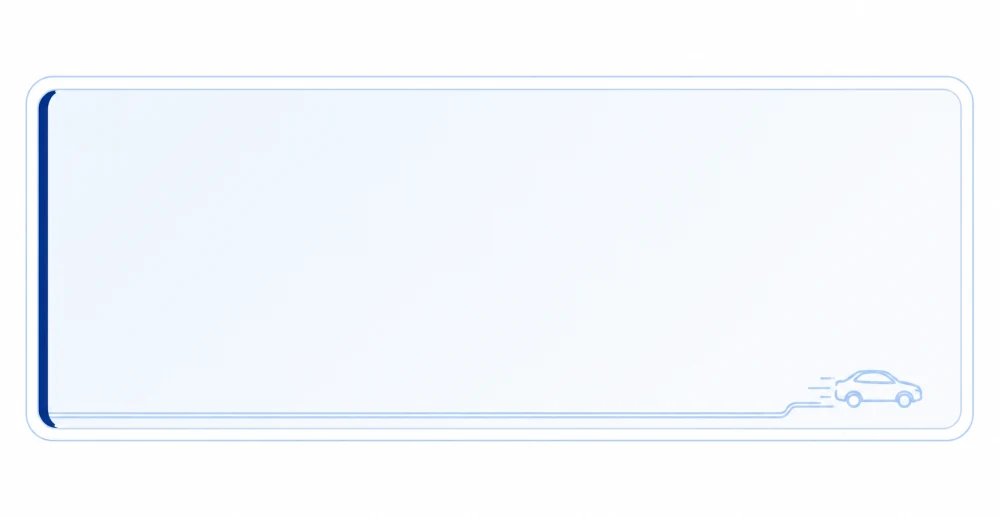
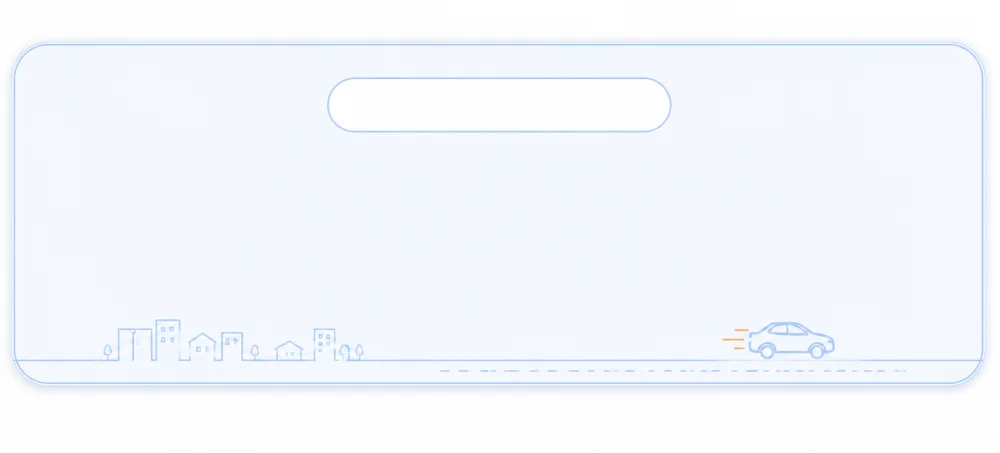
Refine Tachikawa store heading design

Changed region(s): [[0.0, 0.0927, 0.992, 0.8653], [0.341, 0.2781, 0.651, 0.3091]]

diff --git a/shop/tokyo/tachikawa/index.html b/shop/tokyo/tachikawa/index.html
@@ -317,11 +317,13 @@
             }
 
             .tachikawa-access-card .tachikawa-store-heading {
-              min-height: clamp(154px, 46vw, 182px);
-              aspect-ratio: 1000 / 517;
+              width: 100%;
+              height: clamp(154px, 42vw, 160px);
+              min-height: 0;
+              aspect-ratio: auto;
               max-width: none;
               margin: 0 0 12px;
-              padding: clamp(46px, 13vw, 54px) clamp(24px, 6.5vw, 27px) clamp(20px, 6vw, 27px);
+              padding: 0;
               border: 0;
               border-radius: 0;
               overflow: hidden;
@@ -344,33 +346,49 @@
             }
 
             .tachikawa-store-heading > .tachikawa-store-heading-label {
+              width: min(68%, 235px);
+              min-height: clamp(29px, 8.5vw, 34px);
               display: flex;
               align-items: center;
+              justify-content: center;
               gap: 6px;
-              margin: 0 0 9px;
-              color: #3f6171;
-              font-size: clamp(12px, 3.2vw, 14px);
-              font-weight: 800;
+              margin: 0;
+              padding: 3px 12px;
+              border: 1px solid #a8c9f5;
+              border-radius: 999px;
+              background: var(--white);
+              color: var(--navy);
+              font-size: clamp(12px, 3.5vw, 14px);
+              font-weight: 900;
               line-height: 1.3;
               letter-spacing: 0.04em;
-              position: relative;
+              position: absolute;
+              top: 16.5%;
+              left: 50%;
+              transform: translateX(-50%);
               z-index: 1;
             }
 
             .tachikawa-store-heading-label svg {
               flex: 0 0 auto;
-              width: clamp(14px, 3.8vw, 18px);
-              height: clamp(14px, 3.8vw, 18px);
+              width: clamp(14px, 4.1vw, 18px);
+              height: clamp(14px, 4.1vw, 18px);
+              color: var(--orange);
               fill: currentColor;
             }
 
             .tachikawa-access-card .tachikawa-store-heading h1 {
               margin: 0;
+              padding-inline: 4%;
               color: var(--navy);
+              text-align: center;
               word-break: normal;
               overflow-wrap: break-word;
               text-wrap: balance;
-              position: relative;
+              position: absolute;
+              top: 36%;
+              right: 0;
+              left: 0;
               z-index: 1;
             }
 
@@ -379,18 +397,19 @@
             }
 
             .tachikawa-access-card .tachikawa-store-heading h1 .tachikawa-store-title-region {
-              color: #3f6171;
-              font-size: clamp(13px, 3.5vw, 15px);
-              font-weight: 700;
-              line-height: 1.45;
+              color: #365d91;
+              font-size: clamp(13px, 3.7vw, 15px);
+              font-weight: 800;
+              line-height: 1.4;
+              letter-spacing: 0.02em;
             }
 
             .tachikawa-access-card .tachikawa-store-heading h1 .tachikawa-store-title-name {
-              margin-top: 2px;
-              font-size: clamp(18px, 5vw, 20px);
+              margin-top: clamp(5px, 1.5vw, 8px);
+              font-size: clamp(18px, 5vw, 21px);
               font-weight: 900;
-              line-height: 1.35;
-              letter-spacing: -0.04em;
+              line-height: 1.25;
+              letter-spacing: -0.05em;
             }
 
             .tachikawa-access-card .tachikawa-store-heading h1 .tachikawa-store-title-separator {
@@ -686,7 +705,7 @@
                 class="tachikawa-store-heading-frame"
                 src="../../../assets/img/tachikawa-store-heading-frame-20260803.webp"
                 width="1000"
-                height="517"
+                height="453"
                 alt=""
                 decoding="async"
                 aria-hidden="true">
